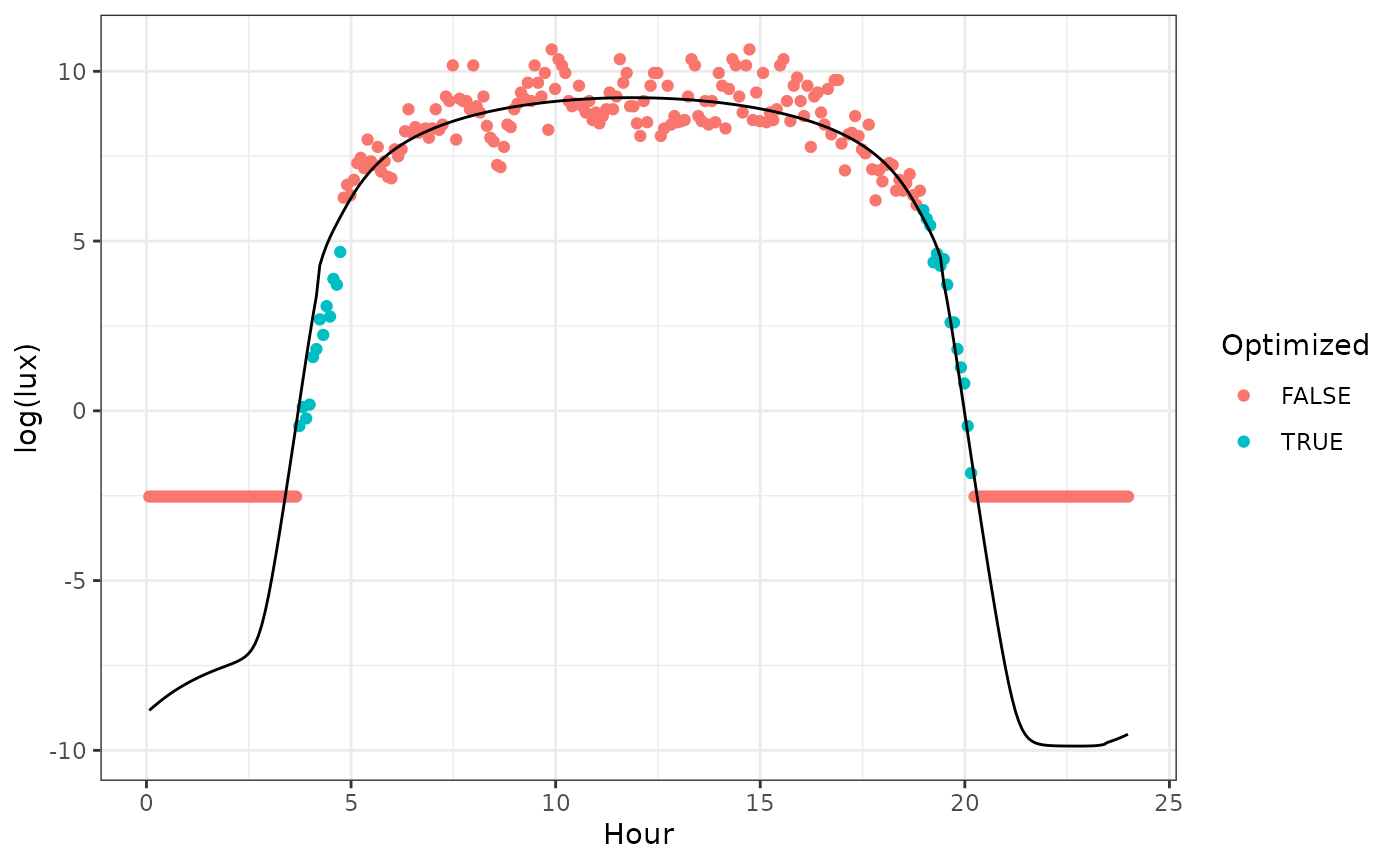
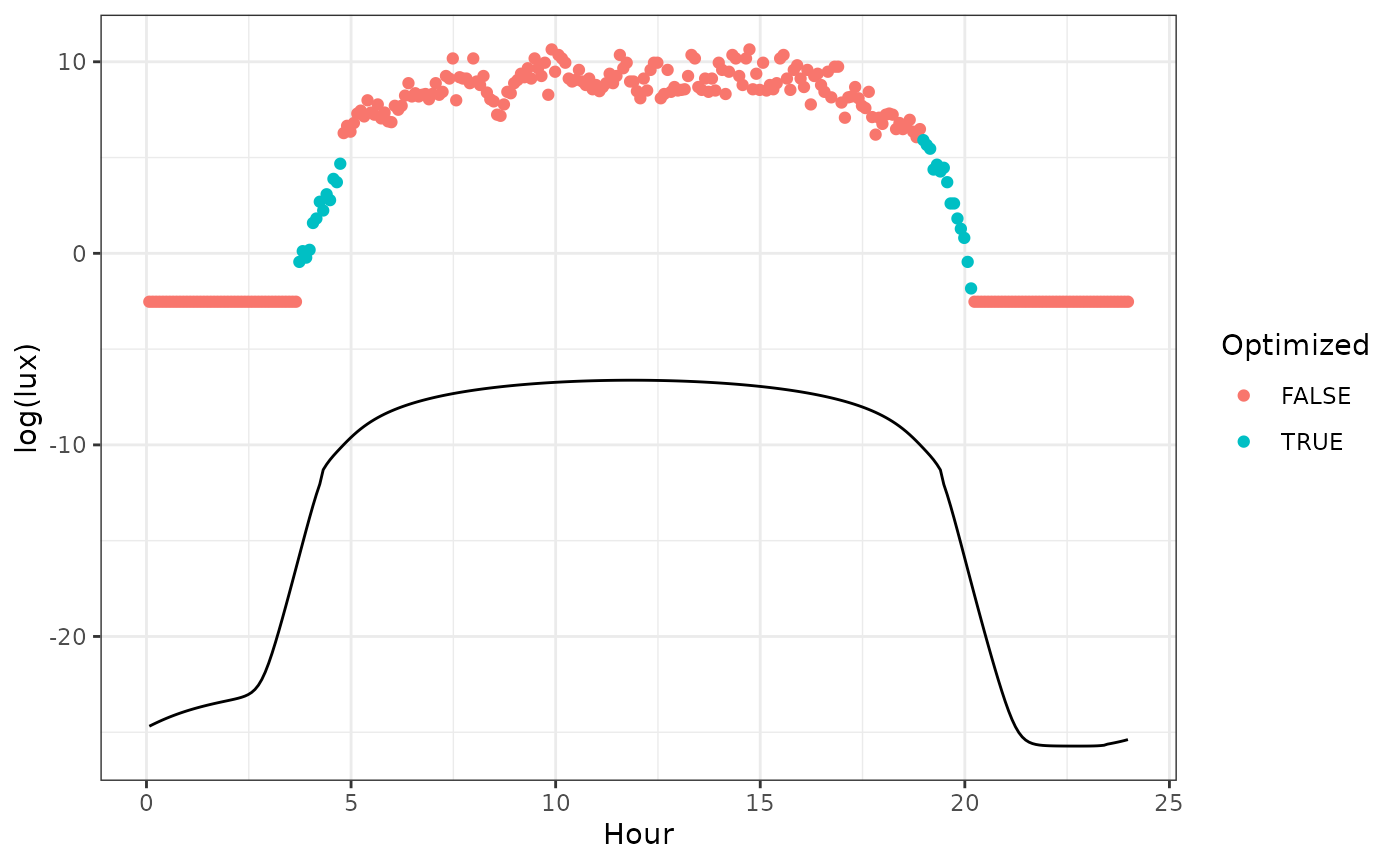
Deploying to gh-pages from @ bluegreen-labs/skytrackr@3ab395c6f78b19cfe51179909bf911dea452bc1d 🚀

diff --git a/articles/introduction.html b/articles/introduction.html
@@ -276,11 +276,11 @@ posterior parameter distribution.</p>
 <span><span class="co"># print the optimized parameters (i.e. the locations)</span></span>
 <span><span class="fu"><a href="https://rdrr.io/r/base/print.html" class="external-link">print</a></span><span class="op">(</span><span class="va">location</span><span class="op">)</span></span>
 <span><span class="co">#&gt;   latitude longitude sky_conditions latitude_qt_50 longitude_qt_50</span></span>
-<span><span class="co">#&gt; 1 50.85738  3.716409       9.734496       50.83135        3.677164</span></span>
+<span><span class="co">#&gt; 1  50.7515  3.567399       18.12358        50.7339         3.59744</span></span>
 <span><span class="co">#&gt;   sky_conditions_qt_50 latitude_qt_5 latitude_qt_95 longitude_qt_5</span></span>
-<span><span class="co">#&gt; 1             6.659886      50.60039       50.99666       3.563717</span></span>
+<span><span class="co">#&gt; 1             18.86666      50.58262       50.83412       3.519854</span></span>
 <span><span class="co">#&gt;   longitude_qt_95 sky_conditions_qt_5 sky_conditions_qt_95      grb  n</span></span>
-<span><span class="co">#&gt; 1         3.97147            2.292277             9.745755 10.99151 28</span></span>
+<span><span class="co">#&gt; 1        3.942193            9.782196             93.80849 4.405427 28</span></span>
 <span><span class="co">#&gt;         date equinox</span></span>
 <span><span class="co">#&gt; 1 2021-08-02   FALSE</span></span></code></pre></div>
 <p>Note that the returned location estimates are very close to the
@@ -291,16 +291,16 @@ full diurnal profile. Doing so allows you to compare the modelled
 <pre><code><span><span class="co">#&gt; <span style="color: #949494;"># A tibble: 288 × 7</span></span></span>
 <span><span class="co">#&gt;    logger date_time           date         hour measurement value model_results</span></span>
 <span><span class="co">#&gt;    <span style="color: #949494; font-style: italic;">&lt;chr&gt;</span>  <span style="color: #949494; font-style: italic;">&lt;dttm&gt;</span>              <span style="color: #949494; font-style: italic;">&lt;date&gt;</span>      <span style="color: #949494; font-style: italic;">&lt;dbl&gt;</span> <span style="color: #949494; font-style: italic;">&lt;chr&gt;</span>       <span style="color: #949494; font-style: italic;">&lt;dbl&gt;</span>         <span style="color: #949494; font-style: italic;">&lt;dbl&gt;</span></span></span>
-<span><span class="co">#&gt; <span style="color: #BCBCBC;"> 1</span> CC876  2021-08-02 <span style="color: #949494;">00:04:10</span> 2021-08-02 0.069<span style="text-decoration: underline;">4</span> lux          0.08         -<span style="color: #BB0000;">8.82</span></span></span>
-<span><span class="co">#&gt; <span style="color: #BCBCBC;"> 2</span> CC876  2021-08-02 <span style="color: #949494;">00:09:10</span> 2021-08-02 0.153  lux          0.08         -<span style="color: #BB0000;">8.74</span></span></span>
-<span><span class="co">#&gt; <span style="color: #BCBCBC;"> 3</span> CC876  2021-08-02 <span style="color: #949494;">00:14:10</span> 2021-08-02 0.236  lux          0.08         -<span style="color: #BB0000;">8.65</span></span></span>
-<span><span class="co">#&gt; <span style="color: #BCBCBC;"> 4</span> CC876  2021-08-02 <span style="color: #949494;">00:19:10</span> 2021-08-02 0.319  lux          0.08         -<span style="color: #BB0000;">8.57</span></span></span>
-<span><span class="co">#&gt; <span style="color: #BCBCBC;"> 5</span> CC876  2021-08-02 <span style="color: #949494;">00:24:10</span> 2021-08-02 0.403  lux          0.08         -<span style="color: #BB0000;">8.49</span></span></span>
-<span><span class="co">#&gt; <span style="color: #BCBCBC;"> 6</span> CC876  2021-08-02 <span style="color: #949494;">00:29:10</span> 2021-08-02 0.486  lux          0.08         -<span style="color: #BB0000;">8.42</span></span></span>
-<span><span class="co">#&gt; <span style="color: #BCBCBC;"> 7</span> CC876  2021-08-02 <span style="color: #949494;">00:34:10</span> 2021-08-02 0.569  lux          0.08         -<span style="color: #BB0000;">8.34</span></span></span>
-<span><span class="co">#&gt; <span style="color: #BCBCBC;"> 8</span> CC876  2021-08-02 <span style="color: #949494;">00:39:10</span> 2021-08-02 0.653  lux          0.08         -<span style="color: #BB0000;">8.27</span></span></span>
-<span><span class="co">#&gt; <span style="color: #BCBCBC;"> 9</span> CC876  2021-08-02 <span style="color: #949494;">00:44:10</span> 2021-08-02 0.736  lux          0.08         -<span style="color: #BB0000;">8.21</span></span></span>
-<span><span class="co">#&gt; <span style="color: #BCBCBC;">10</span> CC876  2021-08-02 <span style="color: #949494;">00:49:10</span> 2021-08-02 0.819  lux          0.08         -<span style="color: #BB0000;">8.15</span></span></span>
+<span><span class="co">#&gt; <span style="color: #BCBCBC;"> 1</span> CC876  2021-08-02 <span style="color: #949494;">00:04:10</span> 2021-08-02 0.069<span style="text-decoration: underline;">4</span> lux          0.08         -<span style="color: #BB0000;">24.7</span></span></span>
+<span><span class="co">#&gt; <span style="color: #BCBCBC;"> 2</span> CC876  2021-08-02 <span style="color: #949494;">00:09:10</span> 2021-08-02 0.153  lux          0.08         -<span style="color: #BB0000;">24.6</span></span></span>
+<span><span class="co">#&gt; <span style="color: #BCBCBC;"> 3</span> CC876  2021-08-02 <span style="color: #949494;">00:14:10</span> 2021-08-02 0.236  lux          0.08         -<span style="color: #BB0000;">24.5</span></span></span>
+<span><span class="co">#&gt; <span style="color: #BCBCBC;"> 4</span> CC876  2021-08-02 <span style="color: #949494;">00:19:10</span> 2021-08-02 0.319  lux          0.08         -<span style="color: #BB0000;">24.4</span></span></span>
+<span><span class="co">#&gt; <span style="color: #BCBCBC;"> 5</span> CC876  2021-08-02 <span style="color: #949494;">00:24:10</span> 2021-08-02 0.403  lux          0.08         -<span style="color: #BB0000;">24.4</span></span></span>
+<span><span class="co">#&gt; <span style="color: #BCBCBC;"> 6</span> CC876  2021-08-02 <span style="color: #949494;">00:29:10</span> 2021-08-02 0.486  lux          0.08         -<span style="color: #BB0000;">24.3</span></span></span>
+<span><span class="co">#&gt; <span style="color: #BCBCBC;"> 7</span> CC876  2021-08-02 <span style="color: #949494;">00:34:10</span> 2021-08-02 0.569  lux          0.08         -<span style="color: #BB0000;">24.2</span></span></span>
+<span><span class="co">#&gt; <span style="color: #BCBCBC;"> 8</span> CC876  2021-08-02 <span style="color: #949494;">00:39:10</span> 2021-08-02 0.653  lux          0.08         -<span style="color: #BB0000;">24.1</span></span></span>
+<span><span class="co">#&gt; <span style="color: #BCBCBC;"> 9</span> CC876  2021-08-02 <span style="color: #949494;">00:44:10</span> 2021-08-02 0.736  lux          0.08         -<span style="color: #BB0000;">24.1</span></span></span>
+<span><span class="co">#&gt; <span style="color: #BCBCBC;">10</span> CC876  2021-08-02 <span style="color: #949494;">00:49:10</span> 2021-08-02 0.819  lux          0.08         -<span style="color: #BB0000;">24.0</span></span></span>
 <span><span class="co">#&gt; <span style="color: #949494;"># ℹ 278 more rows</span></span></span></code></pre>
 <div class="figure" style="text-align: center">
 <img src="introduction_files/figure-html/unnamed-chunk-4-1.png" alt="Figure showing the fitted model results (full black line) from optimized parameters (latitude, longitude, sky conditions). Default parameters only use a limited twilight set of parameters. From the observed values (coloured dots) only the 'True' values were included in the estimation of the model parameters." width="700"><p class="caption">
